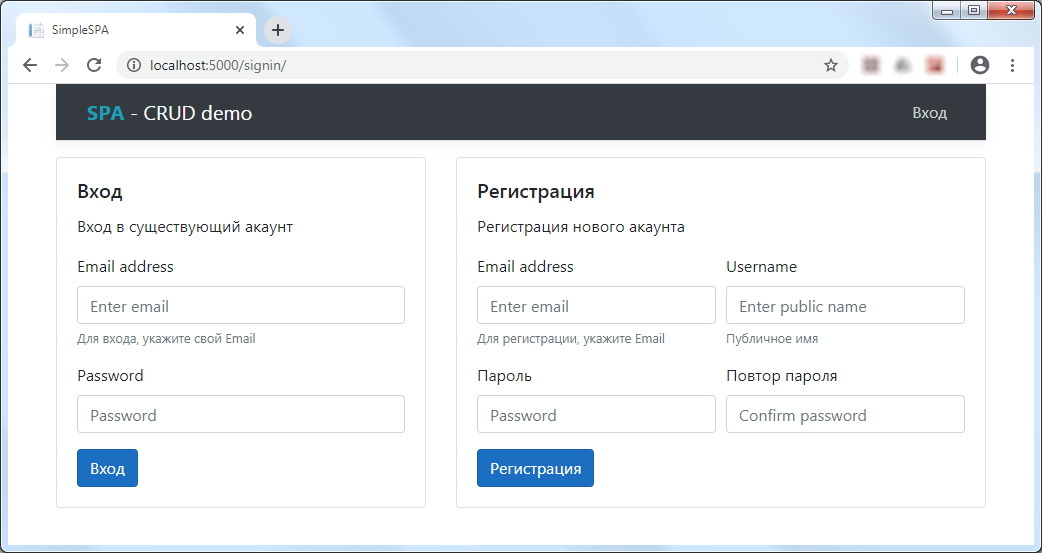
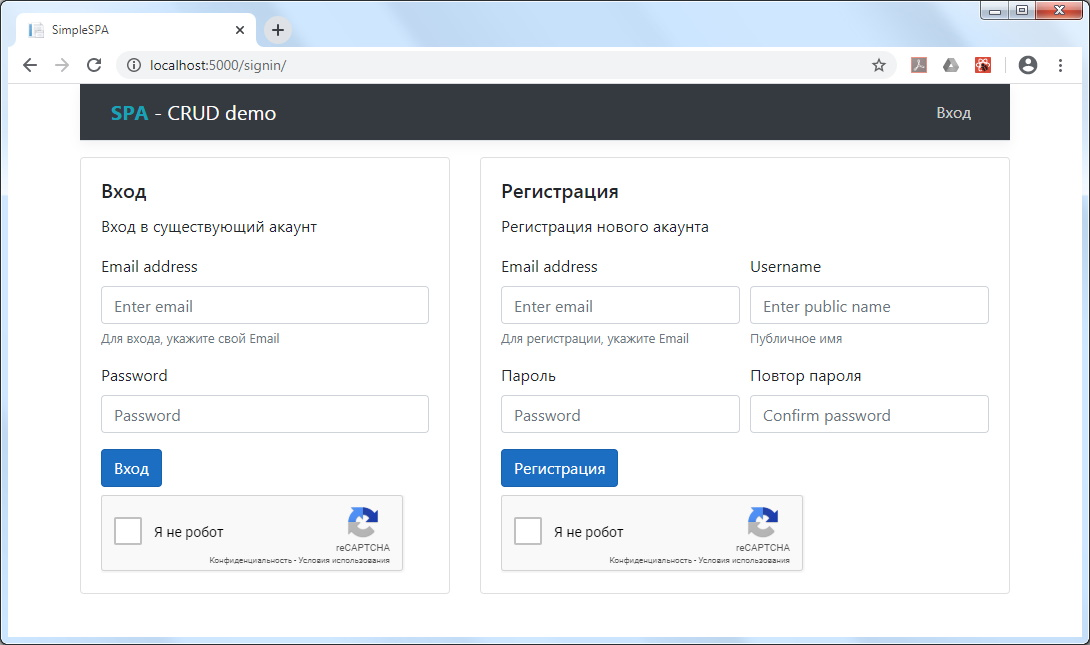
BuildConfiguration + reCaptcha v2
1) Build configuration (IConfigurationBuilder) with json file 'appsettings.json'
2) reCaptcha v2 (widget && Invisible)

diff --git a/ClientApp/src/components/pages/SignIn.js b/ClientApp/src/components/pages/SignIn.js
@@ -26,6 +26,9 @@ export class SignIn extends Component {
             return obj;
         }, {});
 
+        var tmp = jQuery(`#recaptchaWıdget${form.name} textarea`).first().val();
+        sendedFormData.g_recaptcha_response = tmp;
+
         try {
             var fetchInitOptions = {};
             switch (form.name) {
@@ -77,7 +80,6 @@ export class SignIn extends Component {
                 </form>
             );
         }
-
         return (
             <div className="row">
                 <div className="col-sm-5 mb-3">
@@ -97,6 +99,7 @@ export class SignIn extends Component {
                                 </div>
                                 <button type="button" className="btn btn-primary" onClick={this.handleClickButton}>Вход</button>
                             </form>
+                            <div id={`recaptchaWıdget${this.authorisationFormName}`} className="g-recaptcha mt-2" data-sitekey={App.session.reCaptchaV2PublicKey}></div>
                         </div>
                     </div>
                 </div>
@@ -138,10 +141,20 @@ export class SignIn extends Component {
                                 </div>
                                 <button type="button" className="btn btn-primary" onClick={this.handleClickButton}>Регистрация</button>
                             </form>
+                            <div id={`recaptchaWıdget${this.registrationFormName}`} className="g-recaptcha mt-2" data-sitekey={App.session.reCaptchaV2PublicKey}></div>
                         </div>
                     </div>
                 </div>
             </div>
         );
+    }
+
+    componentDidMount() {
+        if (jQuery.find(`#recaptchaWıdget${this.authorisationFormName}`).length) {
+            grecaptcha.render(`recaptchaWıdget${this.authorisationFormName}`);
+        }
+        if (jQuery.find(`#recaptchaWıdget${this.registrationFormName}`).length) {
+            grecaptcha.render(`recaptchaWıdget${this.registrationFormName}`);
+        }
     }
 }

diff --git a/ClientApp/public/index.html b/ClientApp/public/index.html
@@ -1,6 +1,6 @@
-<!DOCTYPE html>
+<!DOCTYPE html>
 <html lang="ru">
-  <head>
+<head>
     <meta charset="utf-8">
     <meta name="viewport" content="width=device-width, initial-scale=1, shrink-to-fit=no">
     <meta name="theme-color" content="#000000">
@@ -20,11 +20,12 @@
       work correctly both with client-side routing and a non-root public URL.
       Learn how to configure a non-root public URL by running `npm run build`.
     -->
+    <script src="https://www.google.com/recaptcha/api.js" async defer></script>
     <title>SimpleSPA</title>
-  </head>
-  <body>
+</head>
+<body>
     <noscript>
-      You need to enable JavaScript to run this app.
+        You need to enable JavaScript to run this app.
     </noscript>
     <div id="root"></div>
     <!--
@@ -37,5 +38,5 @@
       To begin the development, run `npm start` or `yarn start`.
       To create a production bundle, use `npm run build` or `yarn build`.
     -->
-  </body>
+</body>
 </html>

diff --git a/Controllers/SessionController.cs b/Controllers/SessionController.cs
@@ -11,6 +11,9 @@ using Microsoft.AspNetCore.Authorization;
 using Microsoft.AspNetCore.Http;
 using Microsoft.AspNetCore.Mvc;
 using Microsoft.EntityFrameworkCore;
+using Microsoft.Extensions.Options;
+using reCaptcha.Models.VerifyingUsersResponse;
+using reCaptcha.stat;
 using SPADemoCRUD.Models;
 
 namespace SPADemoCRUD.Controllers
@@ -20,9 +23,11 @@ namespace SPADemoCRUD.Controllers
     public class SessionController : ControllerBase
     {
         private readonly AppDataBaseContext _context;
+        private readonly AppConfig AppOptions;
 
-        public SessionController(AppDataBaseContext context)
+        public SessionController(AppDataBaseContext context, IOptions<AppConfig> options)
         {
+            AppOptions = options.Value;
             _context = context;
         }
 
@@ -31,15 +36,38 @@ namespace SPADemoCRUD.Controllers
         public ActionResult<object> Get()
         {
             string role = User.FindFirst(x => x.Type == ClaimsIdentity.DefaultRoleClaimType)?.Value;
+            if (User.Identity.IsAuthenticated || (!AppOptions.IsEnableReCaptchaV2 && !AppOptions.IsEnableReCaptchaV2Invisible))
+            {
+                return new { User.Identity.IsAuthenticated, User.Identity.Name, role };
+            }
+            else if (AppOptions.IsEnableReCaptchaV2)
+            {
+                return new { User.Identity.IsAuthenticated, User.Identity.Name, role, AppOptions.reCaptchaV2PublicKey };
+            }
+            else if (AppOptions.IsEnableReCaptchaV2Invisible)
+            {
+                return new { User.Identity.IsAuthenticated, User.Identity.Name, role, AppOptions.reCaptchaV2InvisiblePublicKey };
+            }
+
             return new { User.Identity.IsAuthenticated, User.Identity.Name, role };
         }
 
         [HttpPost]
-        public async void Post([FromBody] RegisterModel value)
+        public async void Post([FromBody] RegisterModel regUser)
         {
             if (ModelState.IsValid)
             {
-                UserModel user = _context.Users.FirstOrDefault(u => u.Email == value.EmailRegister);
+                if (AppOptions.IsEnableReCaptchaV2 || AppOptions.IsEnableReCaptchaV2Invisible)
+                {
+                    reCaptcha2ResponseModel reCaptcha2Status = reCaptchaVerifier.reCaptcha2SiteVerify(AppOptions.reCaptchaV2PrivatKey, regUser.g_recaptcha_response, HttpContext.Connection.RemoteIpAddress.ToString());
+
+                    if (reCaptcha2Status is null || !reCaptcha2Status.success || (reCaptcha2Status.ErrorСodes != null && reCaptcha2Status.ErrorСodes.Length > 0))
+                    {
+                        ModelState.AddModelError("", "Вы не прошли проверку reCaptcha. Повторите попытку ещё раз.");
+                    }
+                }
+
+                UserModel user = _context.Users.FirstOrDefault(u => u.Email == regUser.EmailRegister);
                 if (user == null)
                 {
                     RoleModel userRole = _context.Roles.FirstOrDefault(x => x.Name.ToLower() == "user");
@@ -58,7 +86,7 @@ namespace SPADemoCRUD.Controllers
                         _context.SaveChanges();
                     }
 
-                    user = new UserModel { Email = value.EmailRegister, Name = value.UsernameRegister, Password = value.PasswordRegister, RoleId = userRole.Id, DepartmentId = userDepartment.Id };
+                    user = new UserModel { Email = regUser.EmailRegister, Name = regUser.UsernameRegister, Password = regUser.PasswordRegister, RoleId = userRole.Id, DepartmentId = userDepartment.Id };
                     _context.Users.Add(user);
                     _context.SaveChanges();
 
@@ -72,11 +100,21 @@ namespace SPADemoCRUD.Controllers
         }
 
         [HttpPut]
-        public void Put([FromBody] LoginModel senderUser)
+        public async void Put([FromBody] LoginModel loginUser)
         {
             if (ModelState.IsValid)
             {
-                UserModel user = _context.Users.Include(x => x.Role).FirstOrDefault(u => u.Email == senderUser.EmailLogin && u.Password == senderUser.PasswordLogin);
+                if (AppOptions.IsEnableReCaptchaV2 || AppOptions.IsEnableReCaptchaV2Invisible)
+                {
+                    reCaptcha2ResponseModel reCaptcha2Status = reCaptchaVerifier.reCaptcha2SiteVerify(AppOptions.reCaptchaV2PrivatKey, loginUser.g_recaptcha_response, HttpContext.Connection.RemoteIpAddress.ToString());
+
+                    if (reCaptcha2Status is null || !reCaptcha2Status.success || (reCaptcha2Status.ErrorСodes != null && reCaptcha2Status.ErrorСodes.Length > 0))
+                    {
+                        ModelState.AddModelError("", "Вы не прошли проверку reCaptcha. Повторите попытку ещё раз.");
+                    }
+                }
+
+                UserModel user = _context.Users.Include(x => x.Role).FirstOrDefault(u => u.Email == loginUser.EmailLogin && u.Password == loginUser.PasswordLogin);
                 if (user != null)
                 {
                     _ = Authenticate(user);

diff --git a/Models/AppConfig.cs b/Models/AppConfig.cs
@@ -1,0 +1,54 @@
+namespace SPADemoCRUD.Models
+{
+    public class AppConfig
+    {
+        #region reCaptcha
+        
+        /// <summary>
+        /// (ПУБЛИЧНЫЙ. reCaptcha V2)
+        /// Используйте этот ключ в HTML-коде, который ваш сайт передает на устройства пользователей.
+        /// </summary>
+        public string reCaptchaV2PublicKey { get; set; }
+        /// <summary>
+        /// (ПРИВАТНЫЙ!. reCaptcha V2)
+        /// Используйте этот секретный ключ для обмена данными между сайтом и сервисом reCAPTCHA.
+        /// </summary>
+        public string reCaptchaV2PrivatKey { get; set; }
+        public bool IsEnableReCaptchaV2 => !string.IsNullOrEmpty(reCaptchaV2PublicKey) && !string.IsNullOrEmpty(reCaptchaV2PrivatKey);
+
+        /// <summary>
+        /// (ПУБЛИЧНЫЙ. reCaptcha V2)
+        /// Используйте этот ключ в HTML-коде, который ваш сайт передает на устройства пользователей.
+        /// </summary>
+        public string reCaptchaV2InvisiblePublicKey { get; set; }
+        /// <summary>
+        /// (ПРИВАТНЫЙ!. reCaptcha V2)
+        /// Используйте этот секретный ключ для обмена данными между сайтом и сервисом reCAPTCHA.
+        /// </summary>
+        public string reCaptchaV2InvisiblePrivatKey { get; set; }
+        public bool IsEnableReCaptchaV2Invisible => !string.IsNullOrEmpty(reCaptchaV2InvisiblePublicKey) && !string.IsNullOrEmpty(reCaptchaV2InvisiblePrivatKey);
+        
+        #endregion
+
+        /// <summary>
+        /// Разрешение Web регистрации. Если False то регистрация через веб интерфейс запрещён
+        /// </summary>
+        public bool AllowedWebRegistration { get; set; } = false;
+
+        /// <summary>
+        /// Флаг/Признак того, что разрешена Web авторизация вводом логина и пароля. Если False то вход возможен только по токену
+        /// </summary>
+        public bool AllowedWebLogin { get; set; } = false;
+
+        /// <summary>
+        /// Установка прав пользователю ROOT по его ID.
+        /// Указав в этом параметре ID пользователя, система при запуске назначит ему (пользовтаелю) права ROOT
+        /// </summary>
+        public int SetUserRootById { get; set; }
+
+        /// <summary>
+        /// Флаг/Признак того что при первычной инициализации/создании базы данных требуется загрузить демо данные
+        /// </summary>
+        public bool HasDemoData { get; set; } = true;
+    }
+}

diff --git a/Startup.cs b/Startup.cs
@@ -6,6 +6,7 @@ using Microsoft.EntityFrameworkCore;
 using Microsoft.Extensions.Configuration;
 using Microsoft.Extensions.DependencyInjection;
 using Microsoft.Extensions.Hosting;
+using Microsoft.Extensions.Options;
 using SPADemoCRUD.Models;
 using System;
 
@@ -13,12 +14,20 @@ namespace SPADemoCRUD
 {
     public class Startup
     {
-        public Startup(IConfiguration configuration)
+        public IConfiguration Configuration { get; }
+        private IConfiguration BuildConfiguration { get; set; }
+        private AppConfig AppOptions { get; set; }
+
+        public Startup(IConfiguration configuration, IWebHostEnvironment env)
         {
             Configuration = configuration;
-        }
 
-        public IConfiguration Configuration { get; }
+            IConfigurationBuilder builder = new ConfigurationBuilder()
+                .SetBasePath(env.ContentRootPath)
+                .AddJsonFile("appsettings.json");
+            // создаем конфигурацию
+            BuildConfiguration = builder.Build();
+        }
 
         // This method gets called by the runtime. Use this method to add services to the container.
         public void ConfigureServices(IServiceCollection services)
@@ -33,20 +42,27 @@ namespace SPADemoCRUD
             {
                 configuration.RootPath = "ClientApp/build";
             });
+
+            // Настройка параметров и DI
+            services.AddOptions();
+            services.Configure<AppConfig>(BuildConfiguration);
+
             services.AddDistributedMemoryCache();
             services.AddSession(options =>
             {
                 options.Cookie.Name = ".MyApp.Session";
-                options.IdleTimeout = TimeSpan.FromSeconds(3600);
+                options.IdleTimeout = TimeSpan.FromMinutes(60);
                 options.Cookie.IsEssential = true;
             });
-
+            services.AddMemoryCache();
             services.AddAuthentication(CookieAuthenticationDefaults.AuthenticationScheme).AddCookie(options => { options.LoginPath = new Microsoft.AspNetCore.Http.PathString("/login/"); });
         }
 
         // This method gets called by the runtime. Use this method to configure the HTTP request pipeline.
-        public void Configure(IApplicationBuilder app, IWebHostEnvironment env)
+        public void Configure(IApplicationBuilder app, IWebHostEnvironment env, IOptions<AppConfig> options)
         {
+            AppOptions = options.Value;
+
             if (env.IsDevelopment())
             {
                 app.UseDeveloperExceptionPage();

diff --git a/Models/view/RegisterModel.cs b/Models/view/RegisterModel.cs
@@ -1,6 +1,7 @@
 ////////////////////////////////////////////////
 // © https://github.com/badhitman - @fakegov 
 ////////////////////////////////////////////////
+using Newtonsoft.Json;
 using System.ComponentModel.DataAnnotations;
 
 namespace SPADemoCRUD.Models
@@ -22,5 +23,7 @@ namespace SPADemoCRUD.Models
         [DataType(DataType.Password)]
         [Compare("PasswordRegister", ErrorMessage = "Пароль введен неверно")]
         public string ConfirmPasswordRegister { get; set; }
+
+        public string g_recaptcha_response { get; set; }
     }
 }

diff --git a/Models/view/LoginModel.cs b/Models/view/LoginModel.cs
@@ -14,5 +14,7 @@ namespace SPADemoCRUD.Models
         [Required(ErrorMessage = "Не указан пароль")]
         [DataType(DataType.Password)]
         public string PasswordLogin { get; set; }
+
+        public string g_recaptcha_response { get; set; }
     }
 }
